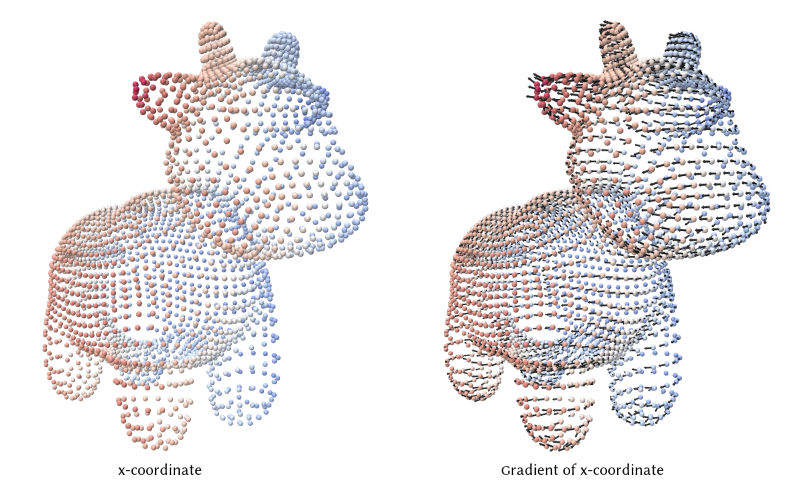
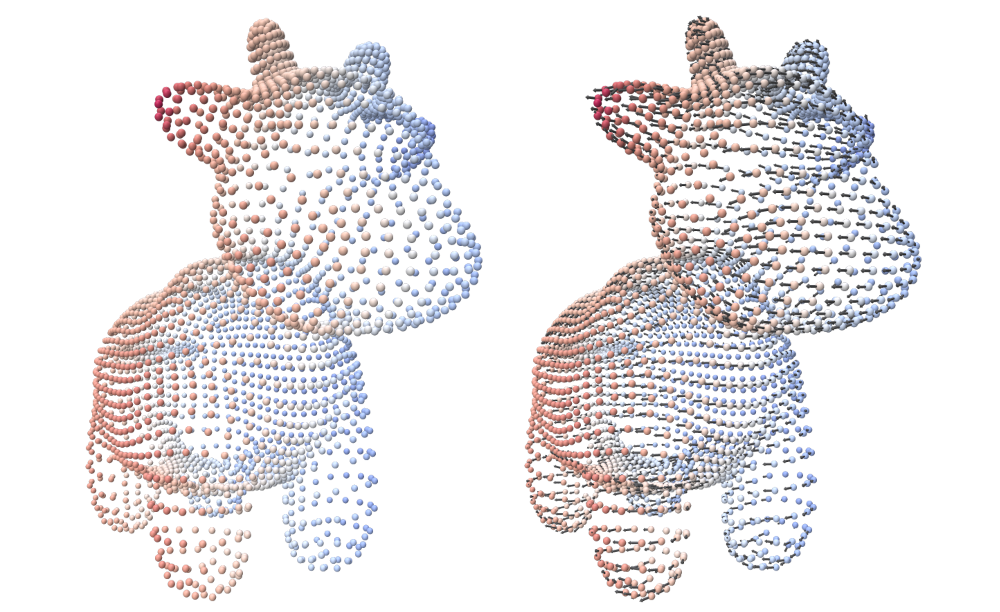
Update to demo image

diff --git a/examples/demo.py b/examples/demo.py
@@ -19,7 +19,7 @@ ps.register_point_cloud("Spot", pos)
 ps.get_point_cloud("Spot").add_scalar_quantity("x-coordinate", pos[:, 0], enabled=True)
 
 # Compute gradient, divergence
-edge_index = knn_graph(pos, 20)
+edge_index = knn_graph(pos, 10)
 normal, x_basis, y_basis = estimate_basis(pos, edge_index)
 grad, div = build_grad_div(pos, normal, x_basis, y_basis, edge_index)
 
